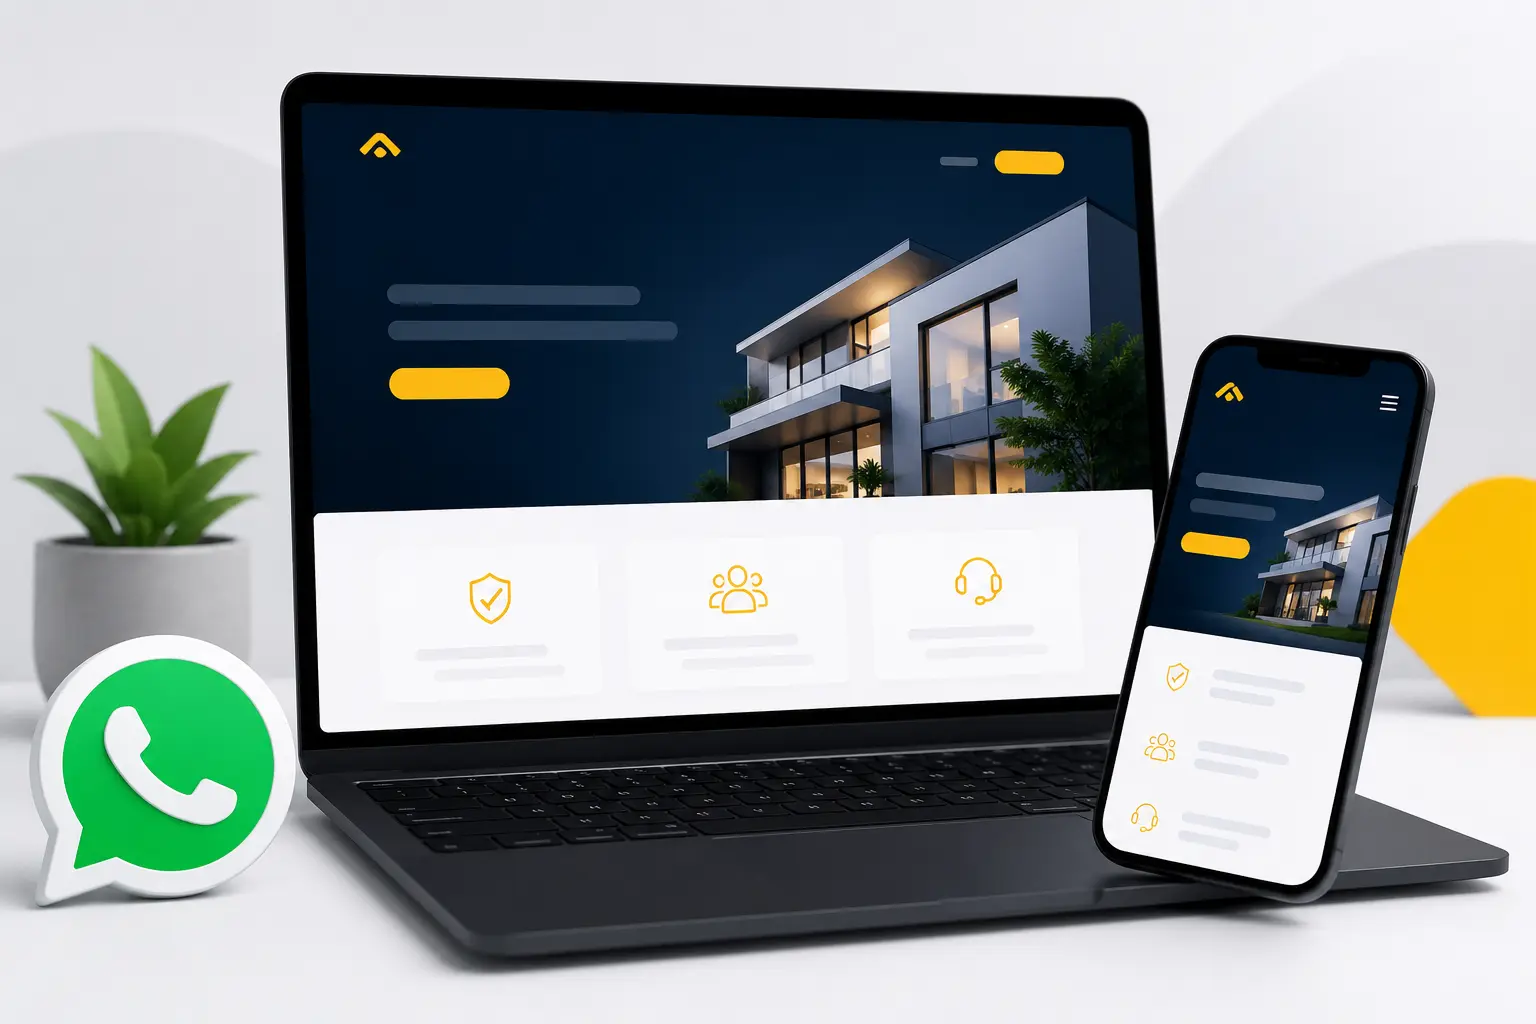
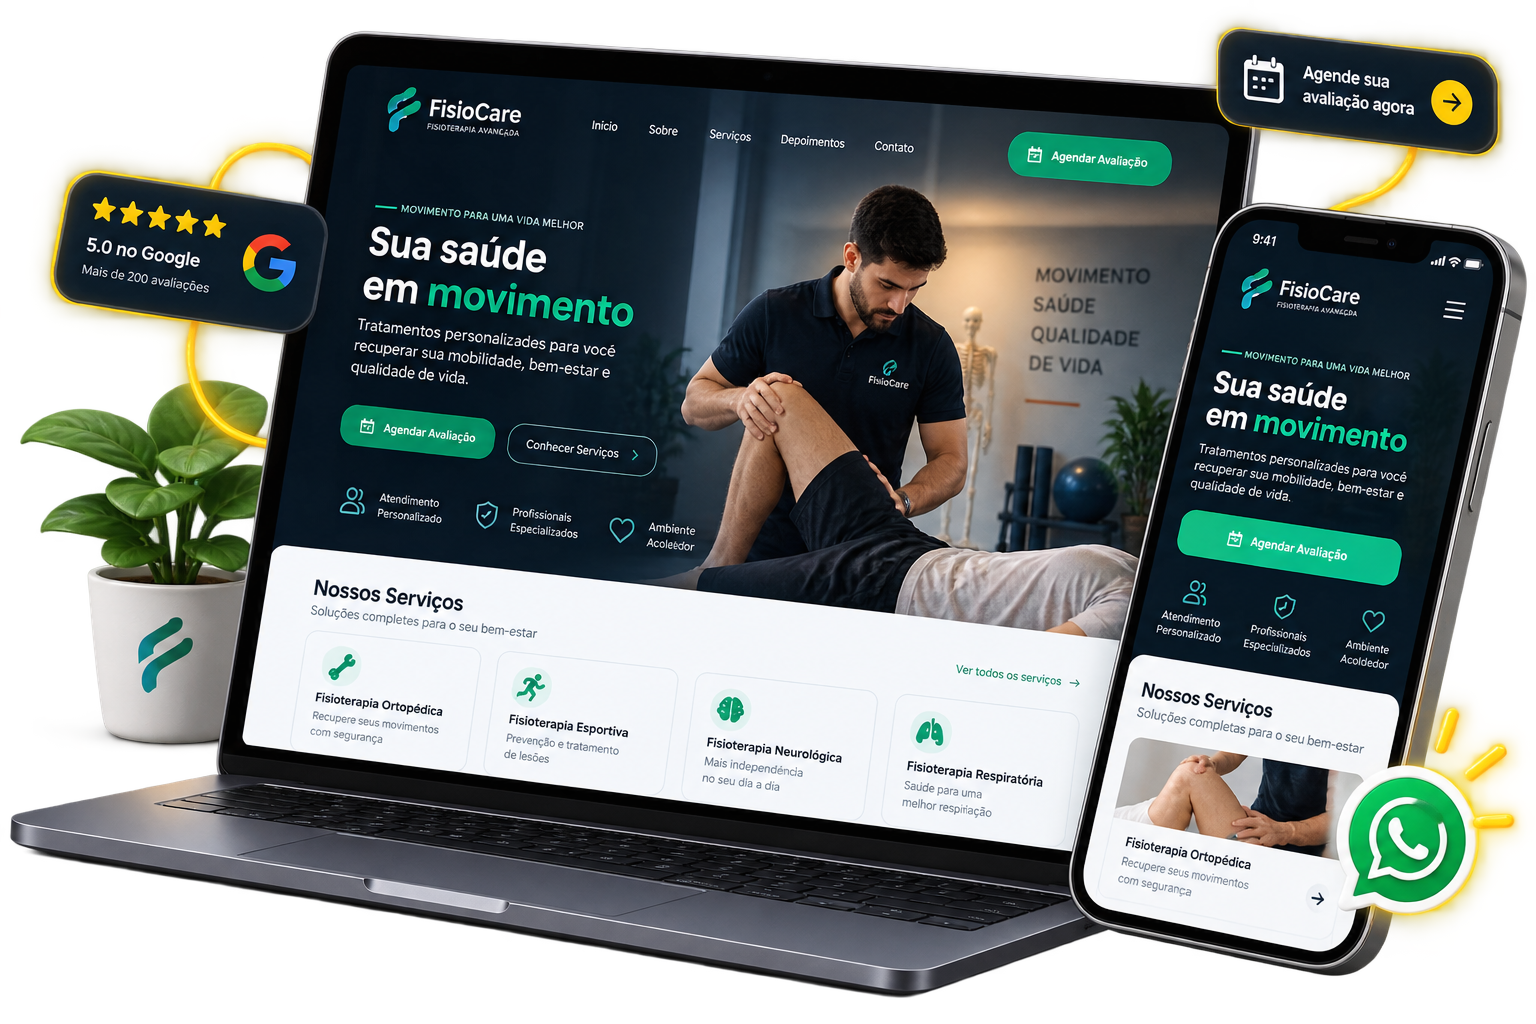
update

diff --git a/meu-site/src/components/Services/Services.tsx b/meu-site/src/components/Services/Services.tsx
@@ -26,7 +26,21 @@ const services: Service[] = [
 ]
 
 export function Services() {
-  const { t } = useLanguage()
+  const { t, lang } = useLanguage()
+
+  // Mensagem dinâmica conforme o idioma (mesmo padrão do Hero)
+  const getWhatsAppMessage = (serviceTitle: string) => {
+    const messages = {
+      pt: `Olá! Vim pelo site e tenho interesse no serviço: ${serviceTitle}.`,
+      es: `¡Hola! Vine por el sitio y tengo interés en el servicio: ${serviceTitle}.`,
+      en: `Hello! I came through the website and I'm interested in the service: ${serviceTitle}.`
+    }
+    return messages[lang] || messages.pt
+  }
+
+  // Link direto para o WhatsApp (mesmo número do Hero)
+  const getWhatsAppLink = (serviceTitle: string) =>
+    `https://wa.me/5511961111894?text=${encodeURIComponent(getWhatsAppMessage(serviceTitle))}`
 
   return (
     <section 
@@ -47,19 +61,41 @@ export function Services() {
         </div>
 
         <div className="services-grid">
-          {services.map((service) => (
-            <article className="service-card" key={service.titleKey}>
-              <div className="service-image-wrapper">
-                <img
-                  src={service.image}
-                  alt=""
-                  loading="lazy"
-                />
-              </div>
-              <h3>{t(service.titleKey)}</h3>
-              <p>{t(service.descKey)}</p>
-            </article>
-          ))}
+          {services.map((service) => {
+            const title = t(service.titleKey)
+            return (
+              <article className="service-card" key={service.titleKey}>
+                <div className="service-image-wrapper">
+                  <img
+                    src={service.image}
+                    alt=""
+                    loading="lazy"
+                  />
+                </div>
+                <h3>{title}</h3>
+                <p>{t(service.descKey)}</p>
+
+                {/* Botão Tenho Interesse - WhatsApp (dentro do card) */}
+                <a
+                  href={getWhatsAppLink(title)}
+                  target="_blank"
+                  rel="noopener noreferrer"
+                  className="service-whatsapp-btn"
+                  aria-label={`Tenho interesse em ${title} - Falar no WhatsApp`}
+                >
+                  {/* Ícone oficial do WhatsApp */}
+                  <svg
+                    viewBox="0 0 24 24"
+                    fill="currentColor"
+                    aria-hidden="true"
+                  >
+                    <path d="M17.472 14.382c-.297-.149-1.758-.867-2.03-.967-.273-.099-.471-.148-.67.15-.197.297-.767.966-.94 1.164-.173.199-.347.223-.644.075-.297-.15-1.255-.463-2.39-1.475-.883-.788-1.48-1.761-1.653-2.059-.173-.297-.018-.458.13-.606.134-.133.298-.347.446-.52.149-.174.198-.298.298-.497.099-.198.05-.371-.025-.52-.075-.149-.669-1.612-.916-2.207-.242-.579-.487-.5-.669-.51-.173-.008-.371-.01-.57-.01-.198 0-.52.074-.792.372-.272.297-1.04 1.016-1.04 2.479 0 1.462 1.065 2.875 1.213 3.074.149.198 2.096 3.2 5.077 4.487.709.306 1.262.489 1.694.625.712.227 1.36.195 1.871.118.571-.085 1.758-.719 2.006-1.413.248-.694.248-1.289.173-1.413-.074-.124-.272-.198-.57-.347m-5.421 7.403h-.004a9.87 9.87 0 01-5.031-1.378l-.361-.214-3.741.982.998-3.648-.235-.374a9.86 9.86 0 01-1.51-5.26c.001-5.45 4.436-9.884 9.888-9.884 2.64 0 5.122 1.03 6.988 2.898a9.825 9.825 0 012.893 6.994c-.003 5.45-4.437 9.884-9.885 9.884m8.413-18.297A11.815 11.815 0 0012.05 0C5.495 0 .16 5.335.157 11.892c0 2.096.547 4.142 1.588 5.945L.057 24l6.305-1.654a11.882 11.882 0 005.683 1.448h.005c6.554 0 11.89-5.335 11.893-11.893a11.821 11.821 0 00-3.48-8.413z" />
+                  </svg>
+                  <span>{t('service_btn_interest')}</span>
+                </a>
+              </article>
+            )
+          })}
         </div>
       </div>
     </section>

diff --git a/meu-site/src/components/Services/Services.css b/meu-site/src/components/Services/Services.css
@@ -178,6 +178,44 @@
 }
 
 /* =========================================================
+   BOTÃO TENHO INTERESSE - DENTRO DE CADA CARD
+   ========================================================= */
+.service-whatsapp-btn {
+    display: inline-flex;
+    align-items: center;
+    justify-content: center;
+    gap: 8px;
+    margin-top: 18px;
+    background: #25D366;
+    color: #fff;
+    font-size: 14px;
+    font-weight: 600;
+    padding: 10px 22px;
+    border-radius: 50px;
+    text-decoration: none;
+    transition: all 0.3s ease;
+    box-shadow: 0 4px 12px rgba(37, 211, 102, 0.25);
+    letter-spacing: 0.02em;
+    white-space: nowrap;
+}
+
+.service-whatsapp-btn:hover {
+    background: #1ebe5d;
+    transform: translateY(-2px);
+    box-shadow: 0 6px 18px rgba(37, 211, 102, 0.4);
+}
+
+.service-whatsapp-btn:active {
+    transform: translateY(0);
+}
+
+.service-whatsapp-btn svg {
+    width: 18px;
+    height: 18px;
+    flex-shrink: 0;
+}
+
+/* =========================================================
    SERVICES - RESPONSIVIDADE COMPLETA
    ========================================================= */
 
@@ -257,6 +295,18 @@
     .service-card {
         animation-delay: 0s !important;
     }
+
+    /* Botão WhatsApp - Mobile */
+    .service-whatsapp-btn {
+        font-size: 13px;
+        padding: 9px 20px;
+        margin-top: 16px;
+    }
+
+    .service-whatsapp-btn svg {
+        width: 16px;
+        height: 16px;
+    }
 }
 
 /* Mobile pequeno */
@@ -299,6 +349,19 @@
         line-height: 1.5;
         max-width: 100%;
     }
+
+    /* Botão WhatsApp - Mobile pequeno */
+    .service-whatsapp-btn {
+        font-size: 13px;
+        padding: 9px 18px;
+        gap: 7px;
+        margin-top: 14px;
+    }
+
+    .service-whatsapp-btn svg {
+        width: 16px;
+        height: 16px;
+    }
 }
 
 /* Mobile muito pequeno */
@@ -332,6 +395,19 @@
     .service-card p {
         font-size: 12px;
     }
+
+    /* Botão WhatsApp - Mobile muito pequeno */
+    .service-whatsapp-btn {
+        font-size: 12px;
+        padding: 8px 16px;
+        gap: 6px;
+        margin-top: 12px;
+    }
+
+    .service-whatsapp-btn svg {
+        width: 14px;
+        height: 14px;
+    }
 }
 
 /* =========================================================
@@ -346,6 +422,14 @@
     }
 
     .service-card:hover {
+        transform: none !important;
+    }
+
+    .service-whatsapp-btn {
+        transition: none !important;
+    }
+
+    .service-whatsapp-btn:hover {
         transform: none !important;
     }
 }

diff --git a/meu-site/src/data/translations.ts b/meu-site/src/data/translations.ts
@@ -23,6 +23,7 @@ export type TranslationKey =
   | 'service_2_desc'
   | 'service_3_title'
   | 'service_3_desc'
+  | 'service_btn_interest'
   // CHAVES DO SHOWCASE
   | 'showcase_title_part1'
   | 'showcase_title_part2'
@@ -180,6 +181,7 @@ export const translations: Translations = {
     service_2_desc: "Painéis sob medida para controlar clientes, pedidos, reservas, serviços e informações importantes. Mais produtividade e dados organizados.",
     service_3_title: "Agendamentos Online",
     service_3_desc: "Uma experiência simples para o cliente escolher horário e enviar os dados. Integração automática com WhatsApp. Ideal para serviços.",
+    service_btn_interest: "Tenho Interesse",
     // SHOWCASE - PT
     showcase_title_part1: "Exemplos que você",
     showcase_title_part2: "pode explorar",
@@ -334,6 +336,7 @@ export const translations: Translations = {
     service_2_desc: "Paneles a medida para controlar clientes, pedidos, reservas, servicios e información importante. Más productividad y datos organizados.",
     service_3_title: "Agendamientos Online",
     service_3_desc: "Una experiencia simple para que el cliente elija horario y envíe los datos. Integración automática con WhatsApp. Ideal para servicios.",
+    service_btn_interest: "Tengo Interés",
     // SHOWCASE - ES
     showcase_title_part1: "Ejemplos que",
     showcase_title_part2: "puedes explorar",
@@ -488,6 +491,7 @@ export const translations: Translations = {
     service_2_desc: "Tailor-made dashboards to control clients, orders, bookings, services, and important info. More productivity and organized data.",
     service_3_title: "Online Scheduling",
     service_3_desc: "A simple experience for the client to choose a time and send their info. Auto-integration with WhatsApp. Ideal for services.",
+    service_btn_interest: "I'm Interested",
     // SHOWCASE - EN
     showcase_title_part1: "Examples you",
     showcase_title_part2: "can explore",
